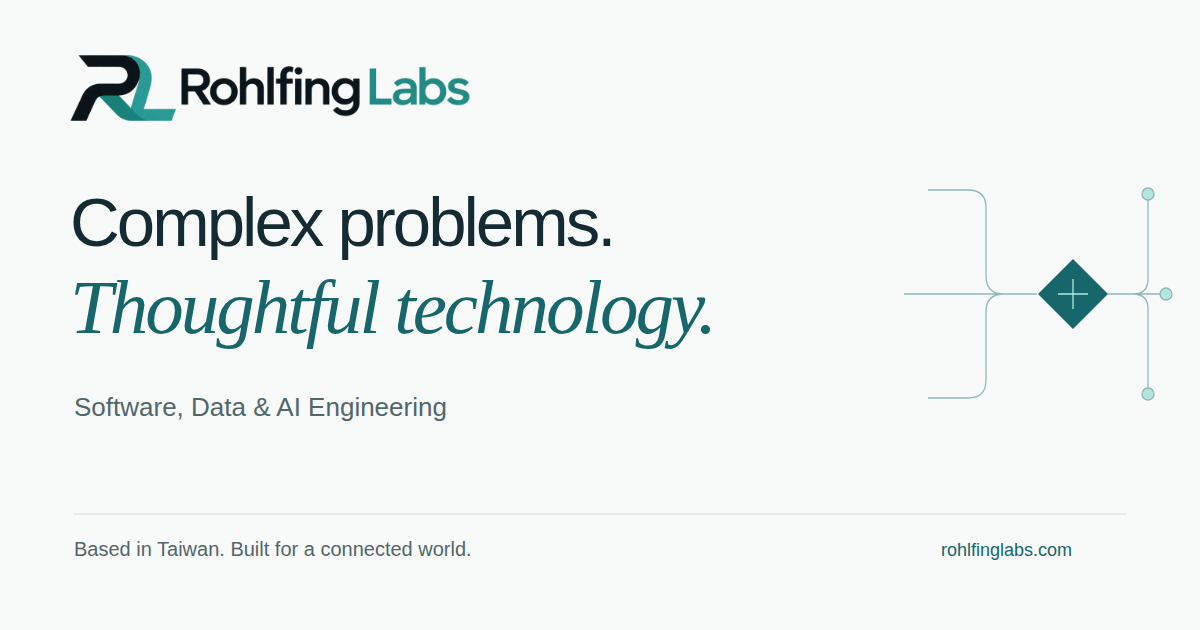
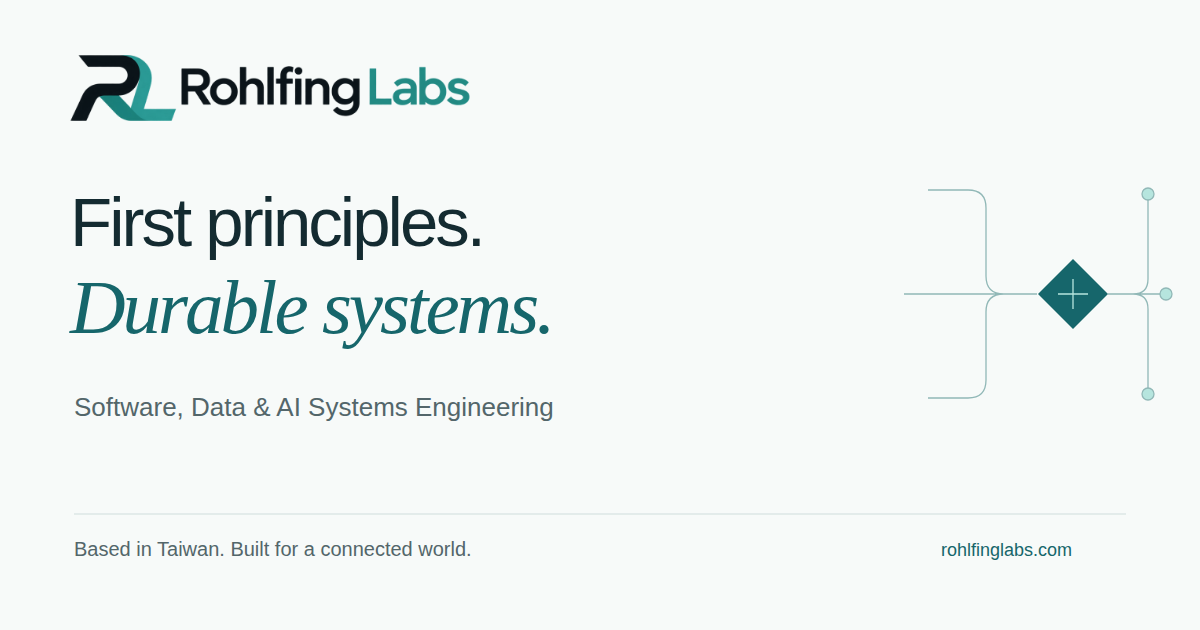
Reposition the site on first-principles engineering and durable systems
New tagline (First principles. Durable systems.), a home-page mission
section with four principles, and refreshed About and Services copy in
English and Traditional Chinese. Social card regenerated.

Changed region(s): [[0.0617, 0.4524, 0.5858, 0.573], [0.0617, 0.3016, 0.5242, 0.4222], [0.2467, 0.6333, 0.4625, 0.6635]]

diff --git a/public/assets/site.css b/public/assets/site.css
@@ -437,7 +437,14 @@ html[lang="zh-Hant"] .hero h1 em { font-style: normal; }
   @keyframes reel-reveal { from { opacity: .65; } to { opacity: 1; } }
 }
 
-.concise-services { border-top: 1px solid var(--line); }
+.mission-section { padding-block: var(--section-space); border-top: 1px solid var(--line); background: var(--shelf); }
+.mission-grid { display: grid; grid-template-columns: minmax(0, .8fr) minmax(0, 1.2fr); gap: clamp(28px, 5vw, 72px); align-items: start; }
+.mission-lead h2 { margin-bottom: 18px; }
+.principles { display: grid; grid-template-columns: repeat(2, minmax(0, 1fr)); gap: clamp(14px, 2.1vw, 28px); list-style: none; padding: 0; margin: 0; counter-reset: principle; }
+.principles li { counter-increment: principle; padding: clamp(17px, 2.35vw, 30px); border: 1px solid var(--line); background: var(--paper); }
+.principles li::before { content: counter(principle, decimal-leading-zero); display: block; margin-bottom: 14px; color: var(--gold-text); font-size: 14px; font-weight: 700; letter-spacing: .12em; }
+.principles h3 { font-size: clamp(19px, 1.7vw, 22px); }
+.principles p { margin-top: 10px; color: var(--muted); font-size: 16px; }
 .section-heading {
   display: flex;
   justify-content: space-between;
@@ -651,6 +658,10 @@ html[lang="zh-Hant"] .hero h1 em { font-style: normal; }
 .error-page h1 { font-size: clamp(40px, 5vw, 68px); }
 .error-page .body-large { margin-block: 14px 21px; }
 
+@media (max-width: 980px) {
+  .mission-grid { grid-template-columns: minmax(0, 1fr); }
+}
+
 @media (max-width: 849px) {
   .hero { grid-template-columns: minmax(0, 1fr); }
   .hero h1 { font-size: clamp(36px, 10.2vw, 69px); }
@@ -668,7 +679,7 @@ html[lang="zh-Hant"] .hero h1 em { font-style: normal; }
 }
 
 @media (max-width: 639px) {
-  .service-grid, .featured-grid, .founder-section { grid-template-columns: minmax(0, 1fr); }
+  .service-grid, .featured-grid, .founder-section, .principles { grid-template-columns: minmax(0, 1fr); }
   .founder-section .portrait { justify-self: start; max-width: 300px; }
   .reel-heading p { max-width: 13ch; }
   .footer-bottom { gap: 4px 16px; }

diff --git a/README.md b/README.md
@@ -102,6 +102,7 @@ The dark theme uses charcoal surfaces, light text, turquoise accents, and gold b
 
 - The **contact email** defaults to `rohlfinglabs@gmail.com` in `site.config.mjs`. `CONTACT_EMAIL` can override it. The contact page opens a localized draft in the visitor's mail application. Visitors can also copy the address on browsers that support the Clipboard API. If `email` is set to `null`, the page displays a contact placeholder.
 - **Founder photograph:** `public/assets/austin-rohlfing.webp` is the optimized, metadata-free export of Austin's supplied photograph, configured in `site.config.mjs`. The original composition is preserved; the export is approximately 61 KB.
+- **Mission and principles:** the site is positioned on first-principles engineering and durable foundations ("First principles. Durable systems."). The home page's mission section (`mission` in each language file) states four principles: first principles, foundations built to last, verified not assumed, and clear to the end. These mirror the owner's engineering rules, and the About page says AI assists but judgment and verification stay with a person. Keep new copy consistent with them; the same tagline appears in the footer, structured data, and `brand/social-card.svg` / `public/assets/social-card.png`.
 - **Engineering background:** Home and About use concise founder copy grounded in Austin's supplied April 2026 résumé: Databricks platform architecture and governance at VPP, and lead ETL development at Nationwide. The homepage's Fortune 100 credential links to the About page, which names Nationwide, gives Austin's exact role, and cites its No. 69 position on Fortune's **2026** Fortune 500. The ranking is explicitly dated and sourced to [Nationwide's June 3, 2026 announcement](https://news.nationwide.com/from-mutual-roots-to-a-modern-leader-nationwide-rises-to-no-69-on-fortune-500-list/). It is a Fortune ranking; it is not attributed to Forbes. Refresh the year/rank only after verification. The portfolio leads the site; there is no employer-logo strip or résumé-style organization list. The résumé and personal contact details are not published. Company experience is attributed to Austin, with no client endorsement implied.
 - **Project content** lives in `src/content/projects.mjs`, including shared URLs, screenshot dimensions, technologies, and both language versions of each case study. Set `featured: true` to include a project on the homepage. The owner authorized these projects for portfolio use. The Taipei Archdiocese prototype is shown as a screenshot and case description because its live preview requires sign-in.
 - **Business details:** No phone number, registered company status, client counts, certifications, prices, or results have been invented. Add verified details when appropriate.
